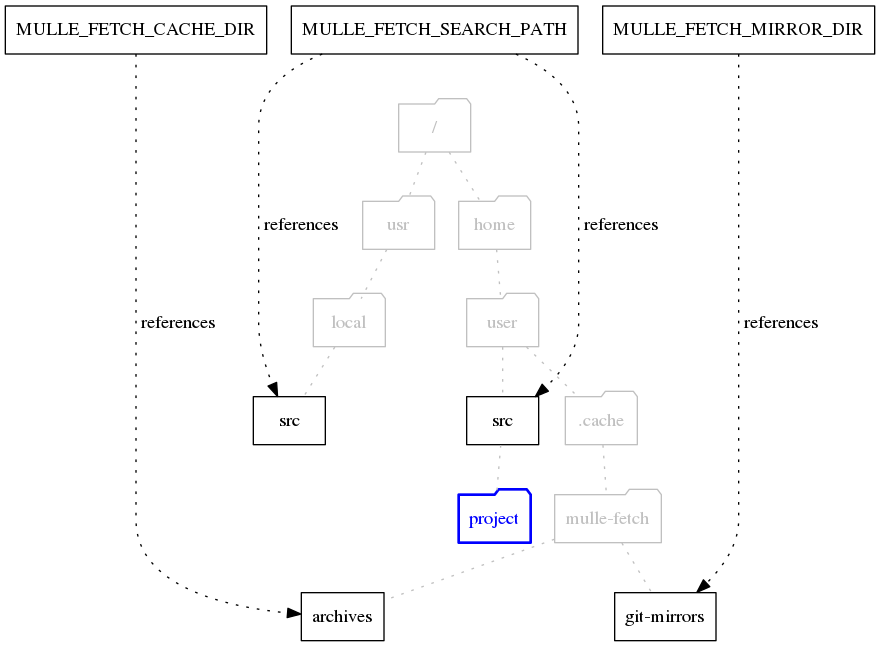
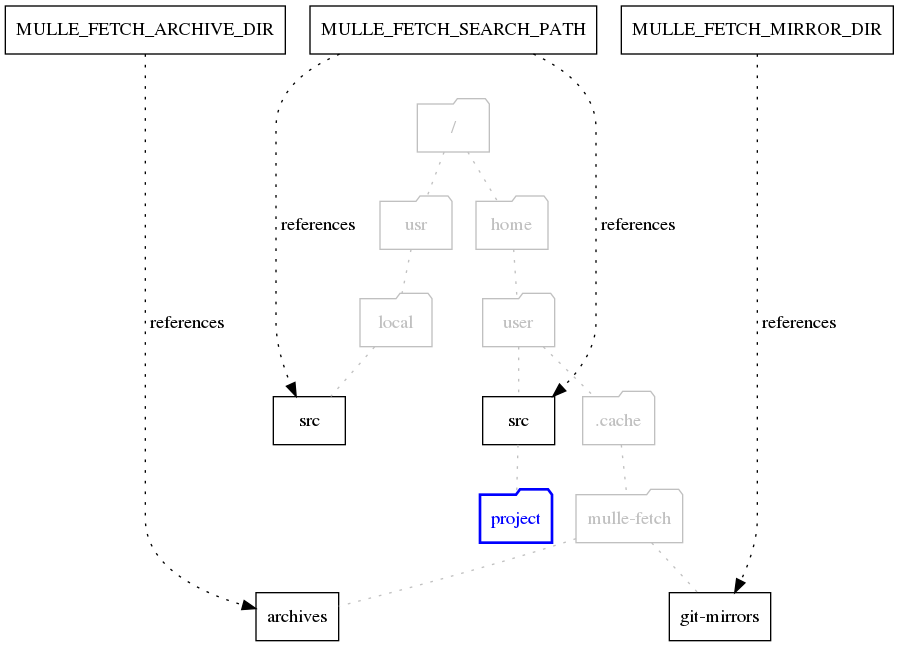
* rename MULLE_FETCH_CACHE_DIR to MULLE_FETCH_ARCHIVE_DIR (as used by rest of mulle-sde)

diff --git a/README.md b/README.md
@@ -106,7 +106,7 @@ mulle-fetch fetch --cache-dir ~/.cache/mulle-fetch/archives \
    https://github.com/mulle-nat/mulle-c11/archive/1.3.5.tar.gz mulle-c11
 ```
 
-> You can also set the environment variable `MULLE_FETCH_CACHE_DIR`.
+> You can also set the environment variable `MULLE_FETCH_ARCHIVE_DIR`.
 
 
 #### Use a search path for local repositories

diff --git a/RELEASENOTES.md b/RELEASENOTES.md
@@ -1,3 +1,8 @@
+## 1.4.0
+
+* rename `MULLE_FETCH_CACHE_DIR` to `MULLE_FETCH_ARCHIVE_DIR` (as used by rest of mulle-sde)
+
+
 ### 1.3.25
 
 * use more exekutor wrappers for git commands
